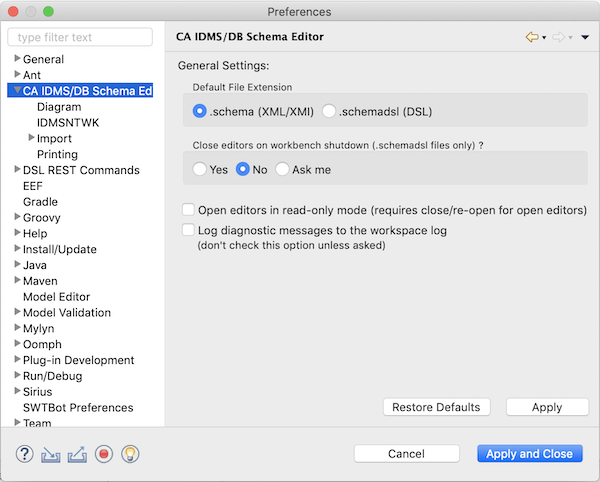
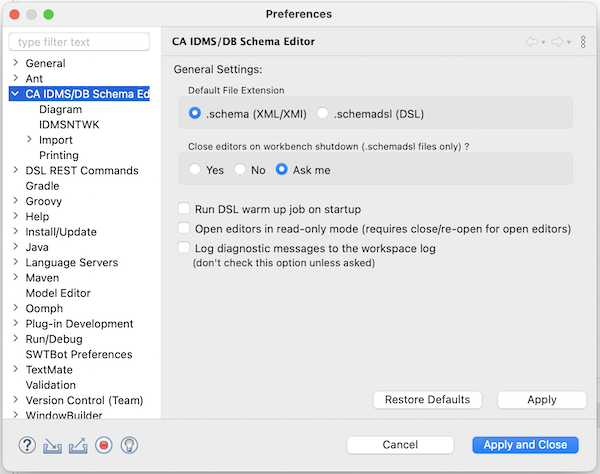
Add missing 'Run DSL warm up job on startup' option to Help

diff --git a/Eclipse CA IDMS Schema Diagram Editor/bundles/org.lh.dmlj.schema.editor.help/html/preferences/preferences_dialog.html b/Eclipse CA IDMS Schema Diagram Editor/bundles/org.lh.dmlj.schema.editor.help/html/preferences/preferences_dialog.html
@@ -24,6 +24,11 @@ diagram, so it is perfectly fine to have diagrams in both formats in your worksp
 time to load than .schema files, you have the choice to close all of the open .schemadsl files when stopping Eclipse.
 This is to avoid excessive Eclipse startup times because of (re)loading .schemadsl files.
 <br><br>
+The DSL Warm up job can be run on workbench startup to speed up opening .schemadsl files; all this job does is to make 
+sure that most of the Java and Groovy classes that are required by the DSL feature are loaded into the Java VM 
+<i>before</i> they are needed. It's up to you whether or not you want this to happen or not: enabling the job can make 
+your workbench startup slower, so this is not what you want if you are only using .schema files.
+<br><br>
 <img src="../../images/preferences_diagram.png" alt="[preferences import]">
 <br><br>
 It may be necessary to adjust the default font size used by the diagram editor.  For Windows you can align the <i>font 
